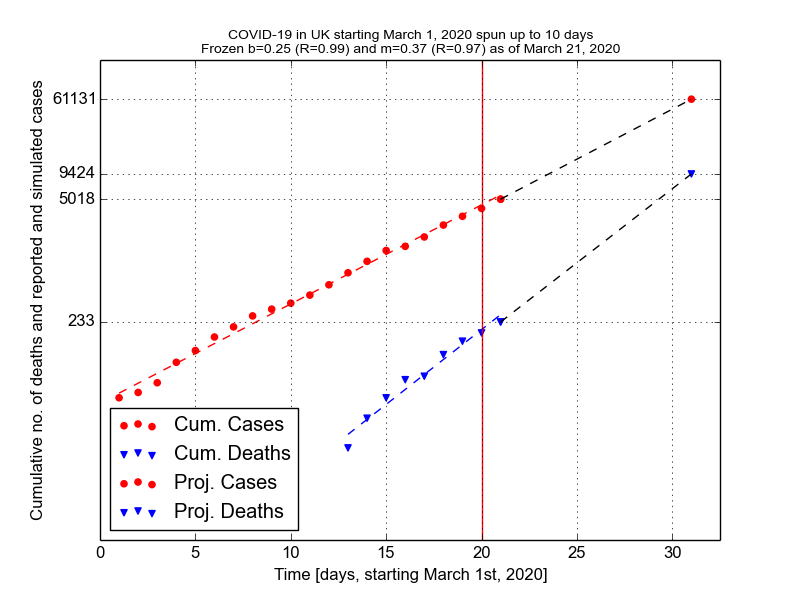
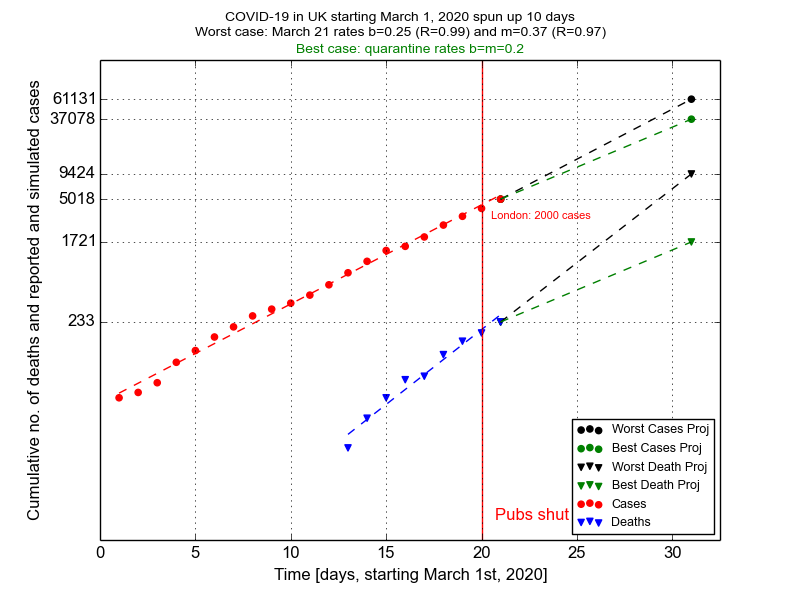
added projections

diff --git a/cov_lin_models_refactored.py b/cov_lin_models_refactored.py
@@ -44,19 +44,27 @@ SLOWDOWN = {"Belgium": 13,
 
 
 def _compute_projection_uk():
-    """Compute projection at 21 March 2020 for 10 days."""
-    # cases
-    b = 0.25
-    y0 = 5018.
-    x0 = 21.
-    y = y0 * np.exp(b * 10.)
-
+    """Compute projection from 21 March 2020 for 10 days."""
+    # fixed numbers on March 21, one day after pubs, cafes etc
+    # have been shut
+    # reported cases
+    b = 0.25  # exp rate
+    y0 = 5018.  # no of reported cases
+    x0 = 21.  # day: March 21
+    y = y0 * np.exp(b * 10.)  # evolution (R=0.99)
     # deaths
-    m = 0.37
-    y0d = 233.
-    yd = y0d * np.exp(m * 10.)
+    m = 0.37  # exp rate
+    y0d = 233.  # no of reported deaths
+    yd = y0d * np.exp(m * 10.)  # evolution (R=0.97)
 
-    return x0, y0, y0d, y, yd
+    # allow for an immediate decrease in exp rates,
+    # equivalent to some places where quarantines
+    b_min = 0.2
+    m_min = 0.2
+    y_min = y0 * np.exp(b_min * 10.)
+    yd_min = y0d * np.exp(m_min * 10.)
+
+    return (x0, y0, y0d, y, yd, y_min, yd_min)
 
 
 def c_of_d(ys_orig, ys_line):
@@ -465,39 +473,60 @@ def make_simulations_plot(variable_pack, country):
                              "COVID-19_LIN_{}_SIM_CASES.png".format(country)))
     plt.close()
 
-    # do full 10-day projection
+    # do full 10-day running projection
+    # with initial conditions on March 21
     if country == "UK":
-        x0, y0, y0d, y, yd = _compute_projection_uk()
-        # plot simulated cases
-        plt.scatter(x_data, y_data, color='r',
-                    label="Cum. Cases")
-        ticks = [y, yd]
-        ticks_real = []
-        plt.plot(x_data, poly_x, '--r')
-        plt.scatter(x_deaths, y_deaths, marker='v',
-                    color='b', label="Cum. Deaths")
-        plt.plot(x_deaths, poly_x_d, '--b')
+        # projection data and ticks
+        x0, y0, y0d, y, yd, y_min, yd_min = _compute_projection_uk()
+        log_ticks = [np.log(y0), np.log(y), np.log(y0d), np.log(yd),
+                     np.log(y_min), np.log(yd_min)]
+        real_ticks = [int(y0), int(y), int(y0d), int(yd),
+                      int(y_min), int(yd_min)]
+
+        # if slowdown
         if country in SLOWDOWN:
             plt.axvline(SLOWDOWN[country], linewidth=2, color='orange')
             plt.scatter(x_slow, y_slow, color='g',
                         label="Daily Cases Slower")
             plt.plot(x_slow, poly_x_s, '-g')
-        plt.scatter((x0, x0 + 10.), (np.log(y0), np.log(y)), color='r', label="Proj. Cases")
-        plt.scatter((x0, x0 + 10.), (np.log(y0d), np.log(yd)), marker='v', color='b', label="Proj. Deaths")
+        plt.scatter((x0, x0 + 10.), (np.log(y0), np.log(y)),
+                    color='k', label="Worst Cases Proj")
+        plt.scatter((x0, x0 + 10.), (np.log(y0), np.log(y_min)),
+                    color='g', label="Best Cases Proj")
+
+        # plot projections
+        plt.scatter((x0, x0 + 10.), (np.log(y0d), np.log(yd)), marker='v',
+                    color='k', label="Worst Death Proj")
+        plt.scatter((x0, x0 + 10.), (np.log(y0d), np.log(yd_min)), marker='v',
+                    color='g', label="Best Death Proj")
         plt.plot((x0, x0 + 10.), (np.log(y0), np.log(y)), "--k")
+        plt.plot((x0, x0 + 10.), (np.log(y0), np.log(y_min)), "--g")
         plt.plot((x0, x0 + 10.), (np.log(y0d), np.log(yd)), "--k")
+        plt.plot((x0, x0 + 10.), (np.log(y0d), np.log(yd_min)), "--g")
+
+        # plot reported evolving numbers
+        plt.scatter(x_data, y_data, color='r',
+                    label="Cases")  # reported cases
+        plt.plot(x_data, poly_x, '--r')
+        plt.scatter(x_deaths, y_deaths, marker='v',
+                    color='b', label="Deaths")  # reported deaths
+        plt.plot(x_deaths, poly_x_d, '--b')
+
+        # plot anciliaries
         plt.xlim(0., x0 + 11.5)
-        print([int(np.log(y0)), int(np.log(y)), int(np.log(y0d)), int(np.log(yd))])
-        plt.yticks([np.log(y0), np.log(y), np.log(y0d), np.log(yd)],
-                   [int(y0), int(y), int(y0d), int(yd)])
+        plt.yticks(log_ticks, real_ticks)
         plt.xlabel("Time [days, starting March 1st, 2020]")
         plt.ylabel("Cumulative no. of deaths and reported and simulated cases")
         plt.grid()
-        plt.legend(loc="lower left")
+        plt.annotate("Pubs shut", xy=(20.7, 0.5), color='red')
+        plt.annotate("London: 2000 cases", xy=(20.5, np.log(y0) - 0.5),
+                     color='red', fontsize=8)
+        plt.legend(loc="lower right", fontsize=9)
         plt.axvline(20, color="red")
-        plt.title("COVID-19 in {} starting March 1, 2020 spun up to 10 days\n".format(country) + \
-                  "Frozen b=0.25 (R=0.99) and m=0.37 (R=0.97) as of March 21, 2020",
-                  fontsize=10)
+        plt.suptitle("COVID-19 in {} starting March 1, 2020 spun up 10 days\n".format(country) + \
+                     "Worst case: March 21 rates b=0.25 (R=0.99) and m=0.37 (R=0.97)",
+                     fontsize=10)
+        plt.title("Best case: quarantine rates b=m=0.2", color='green', fontsize=10)
         plt.savefig(os.path.join("country_plots",
                                  "COVID-19_LIN_{}_DARK_SIM_UK.png".format(country)))
         plt.close()

diff --git a/README.md b/README.md
@@ -31,6 +31,19 @@ statistical weight to these parts of the country, given overwheling numbers).
 time of about 3 days and a very high mortality, suggesting a combination of biased testing and
 much higher actual infection numbers.**
 
+## Current reported situation and projections
+
+Spread in the UK: measured cases and deaths  |  10-day projections
+:-------------------------------------------:|:-------------------------:
+![UK](country_plots/COVID-19_LIN_UK.png) |  ![UKS](country_plots/country_plots/COVID-19_LIN_UK_DARK_SIM_UK.png)
+
+Left panel: daily cumulative numbers of reported cases and deaths (updated daily); right panel: same numbers
+only with two best- and worst-case projections over the next 10 days (March 20-March 30); worst-case
+projection uses the growth rates for reported cases and deaths and spins up the exponential models
+for 10 days; best-case does the same only using quarantine-like rates. Prediction: number of deaths
+on March 30: between 1700-9000. Given that on March 21 2000 out of the reported 5000 cases were in
+London, the estimate is 40% of the deaths in 10 days time will be in London.
+
 ![UKS](country_plots/COVID-19_LIN_UK_SIM_CASES.png)
 
 Simulating the actual number of infected individuals based on the number of recorded deaths and the
